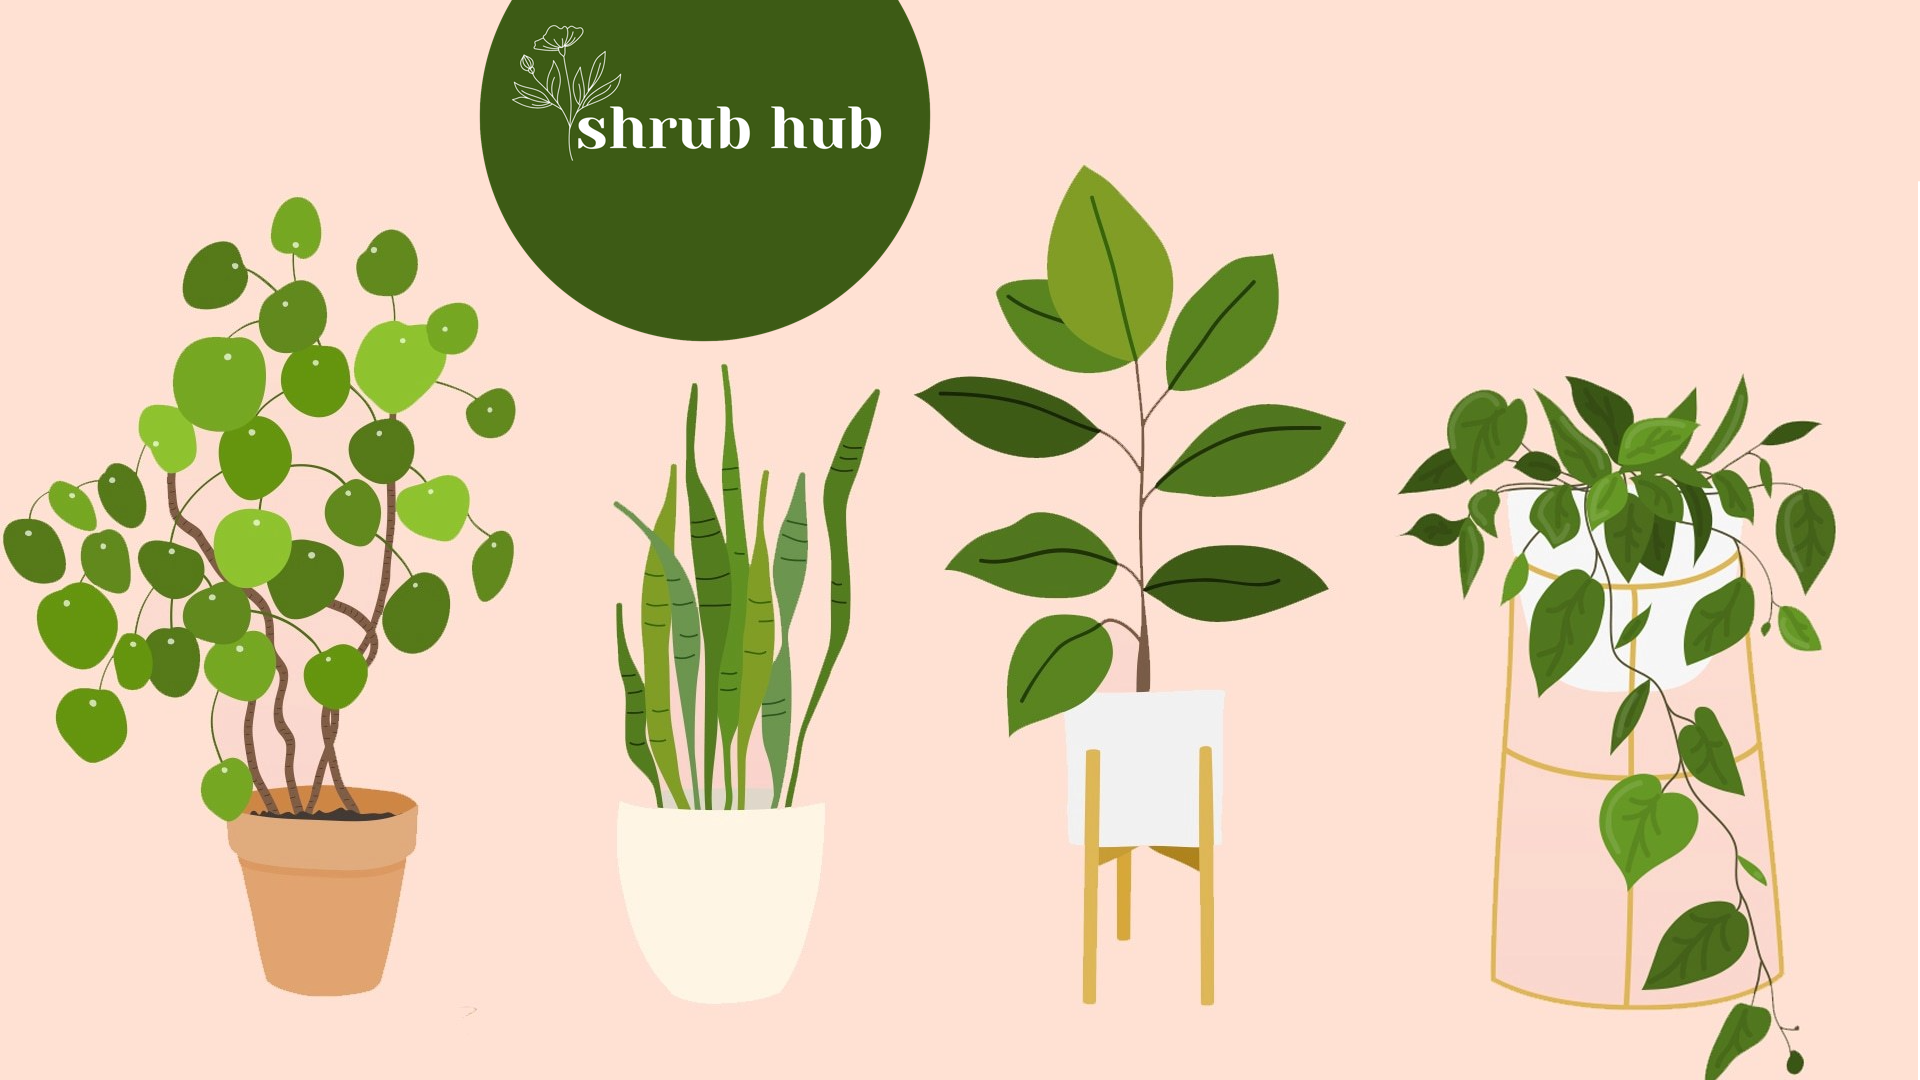
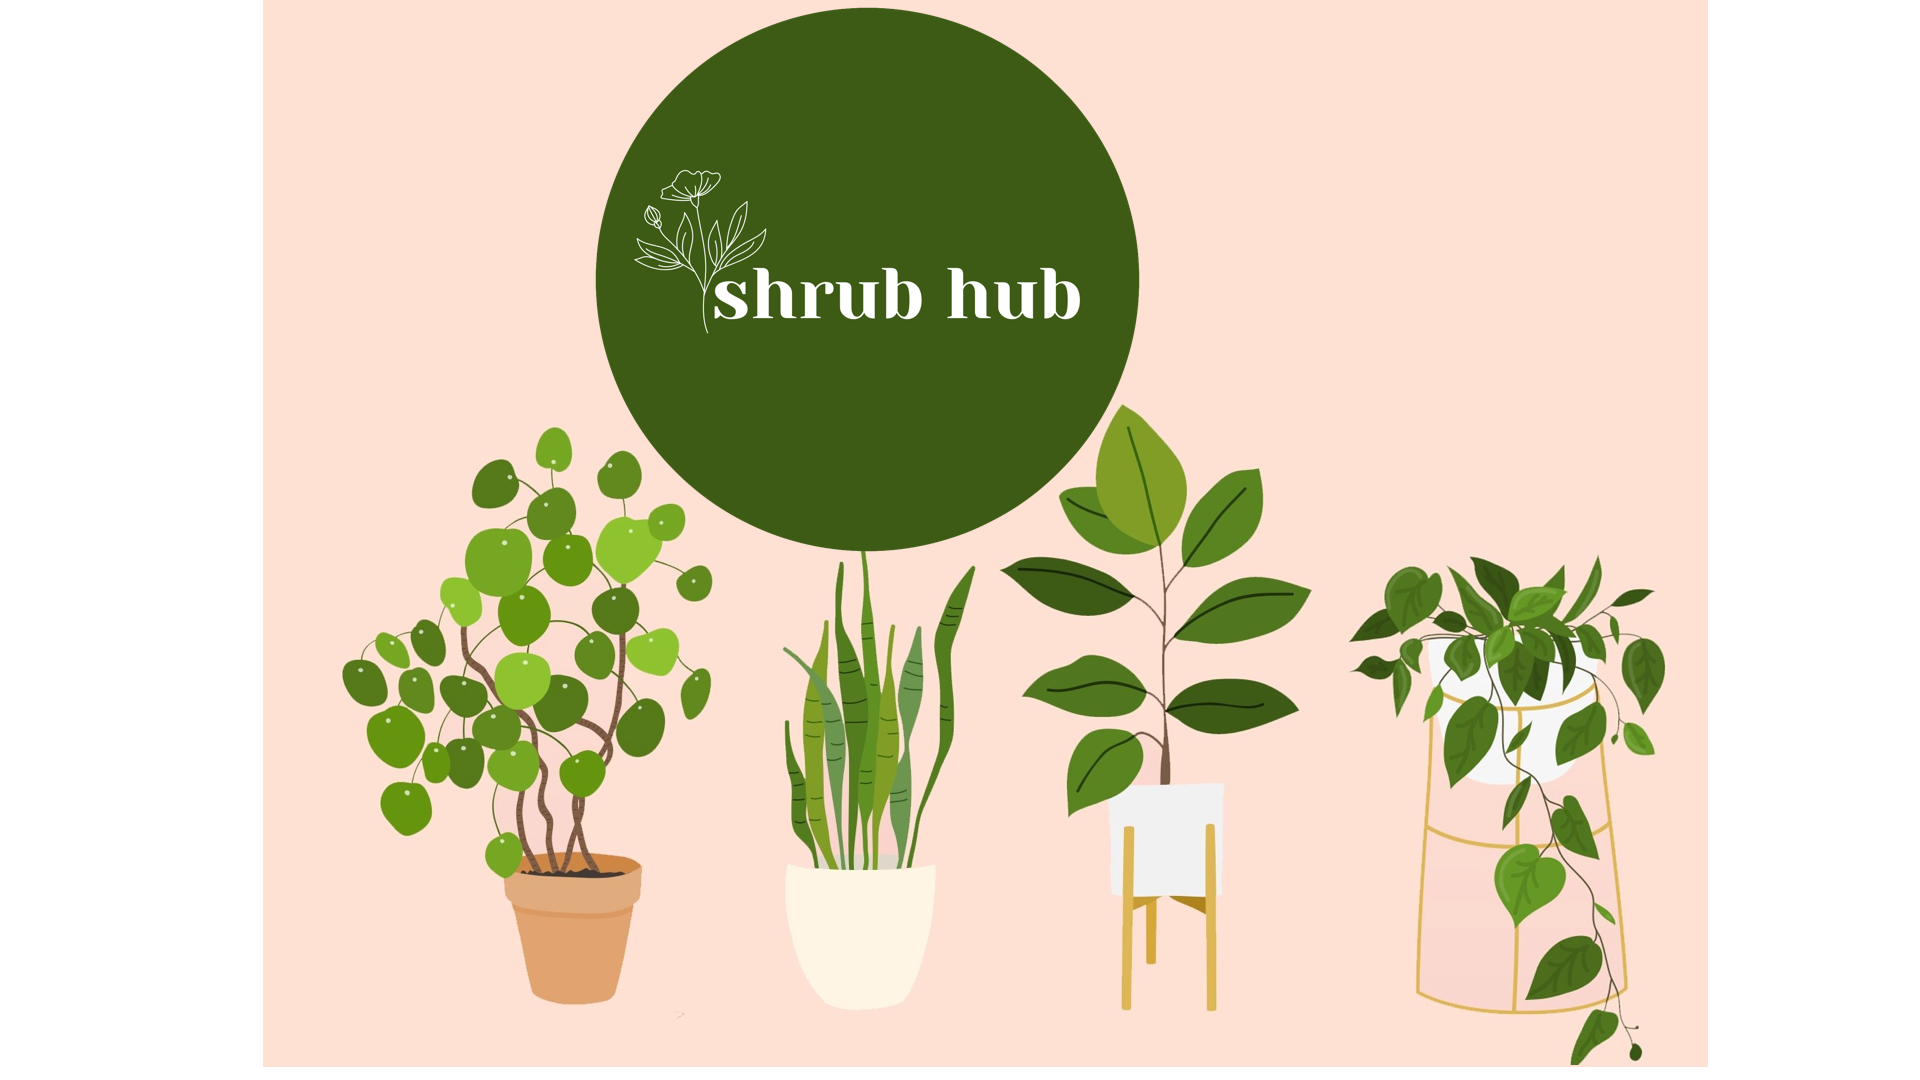
really fixes styling

diff --git a/frontend/index.css b/frontend/index.css
@@ -4,12 +4,11 @@ body, html {
   color: rgb(20, 18, 18);
   line-height: 1.8;
   background: url('images/plants.png');
-  /* background: url('images/shrub-hub-logo.png'); */
   background-color: rgb(255, 225, 210);
   background-repeat: no-repeat;
   background-position: center;
-  background-size: auto; 
-  background-size: 70%;
+  /* background-size: auto;  */
+  background-size: 80%;
 }
 
 .activated {
@@ -78,16 +77,15 @@ button:disabled {
 }
 
 .button {
-	background:linear-gradient(to bottom, #599bb3 5%, #408c99 100%);
-	background-color:#D7B656;
+	background-color:#E1A370;
 	border-radius:8px;
 	display:inline-block;
 	cursor:pointer;
-	color:#ffffff;
-	font-family: "Geneva", sans-serif;
-	font-size: 20px;
-	font-weight:bold;
-	padding:13px 20px;
+	color:#363535;
+	font-family: 'Geneva', sans-serif;
+	font-size: 15px;
+	font-weight: normal;
+	padding: 20px;
 	text-decoration:none;
 }
 
@@ -130,10 +128,10 @@ div.collection-form-container{
     align-content: left;
     text-align: center;
     /* top: 200px; */
-    padding: 10%;
+    padding: 14%;
     width: fit-content; 
     bottom: 0;
-    background-color:rgb(255, 255, 255)
+    background-color:rgb(255, 225, 210);
 }  
 
 .form-control {
@@ -154,14 +152,13 @@ img {
 }
 
 .input {
-	background-color:#9c989e;
-	border-radius:8px;
+	background-color:#fcfbfd;
+	/* border-radius:8px; */
 	display:inline;
 	cursor:pointer;
 	color:#e7e5e7;
 	font-family:"Geneva", sans-serif;
 	font-size:20px;
-	font-weight:bold;
 	padding:13px 32px;
 	text-decoration:none;
 }
